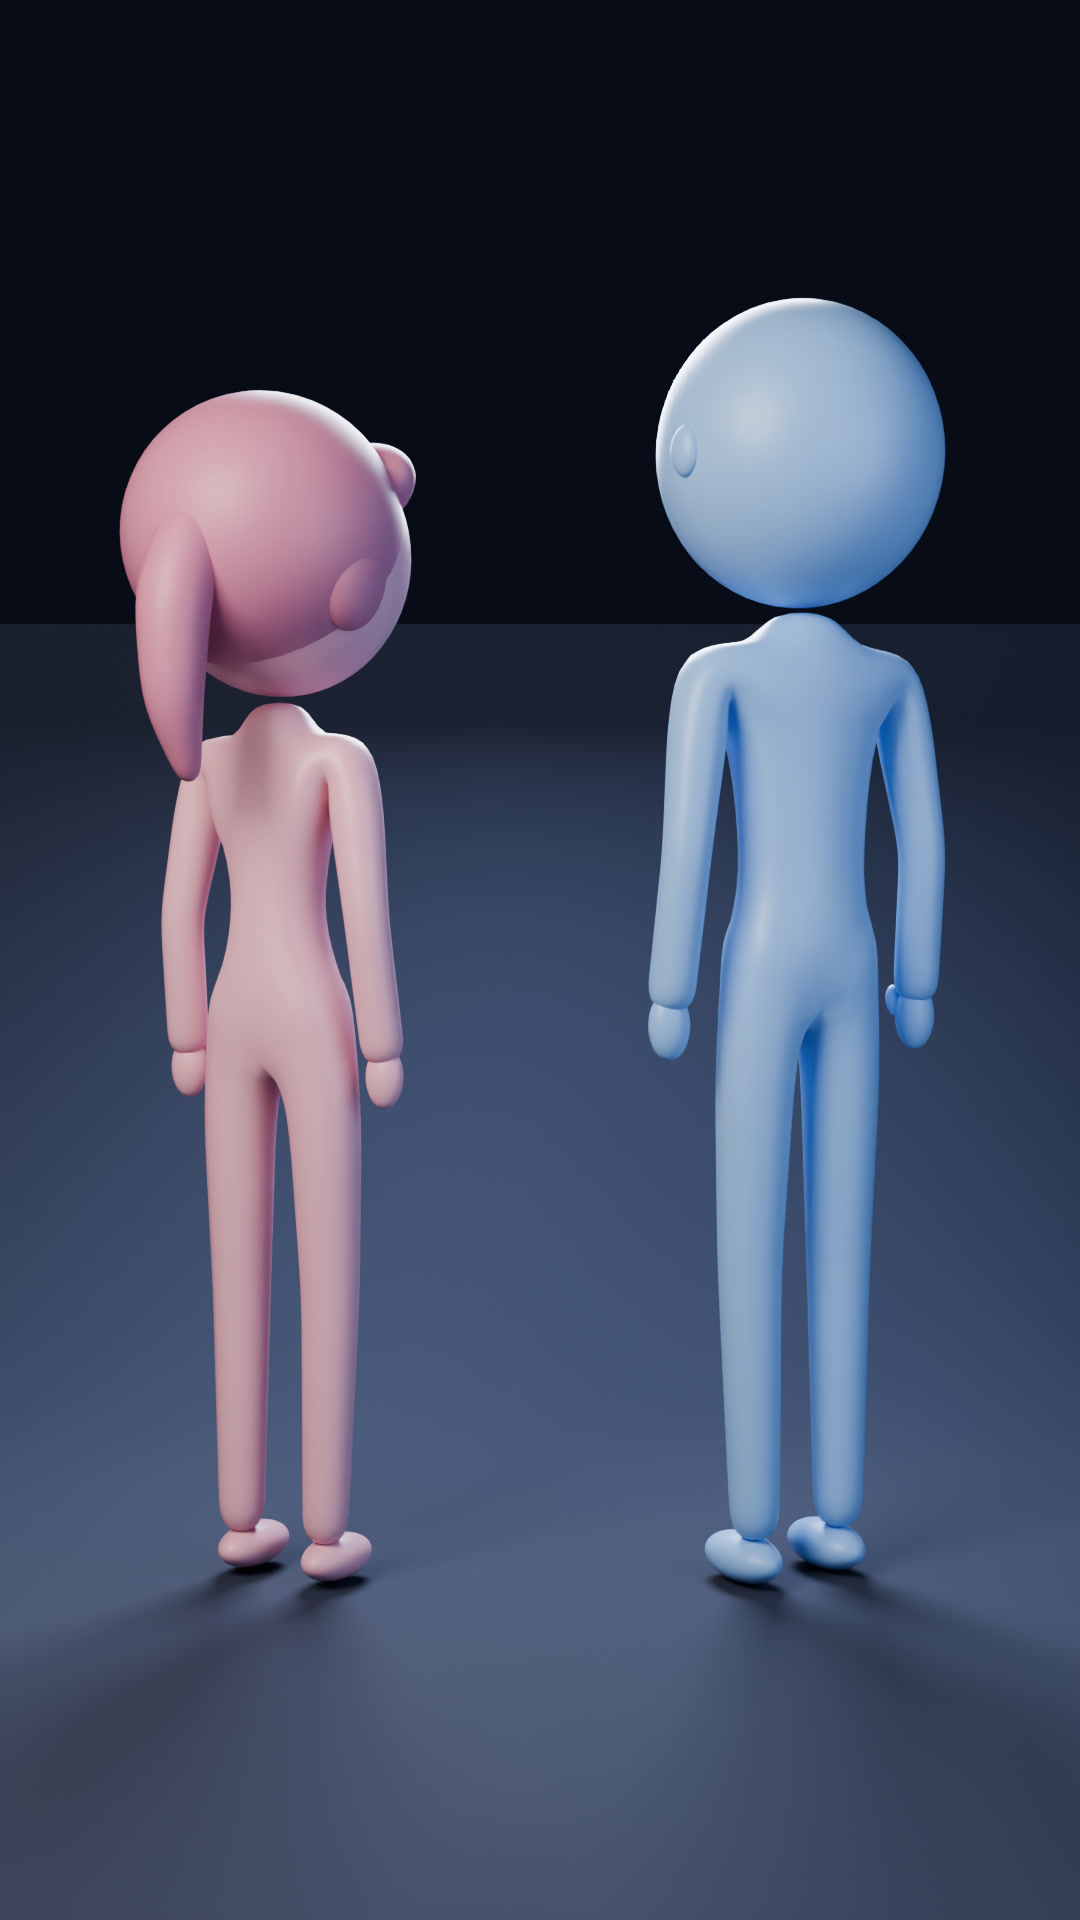
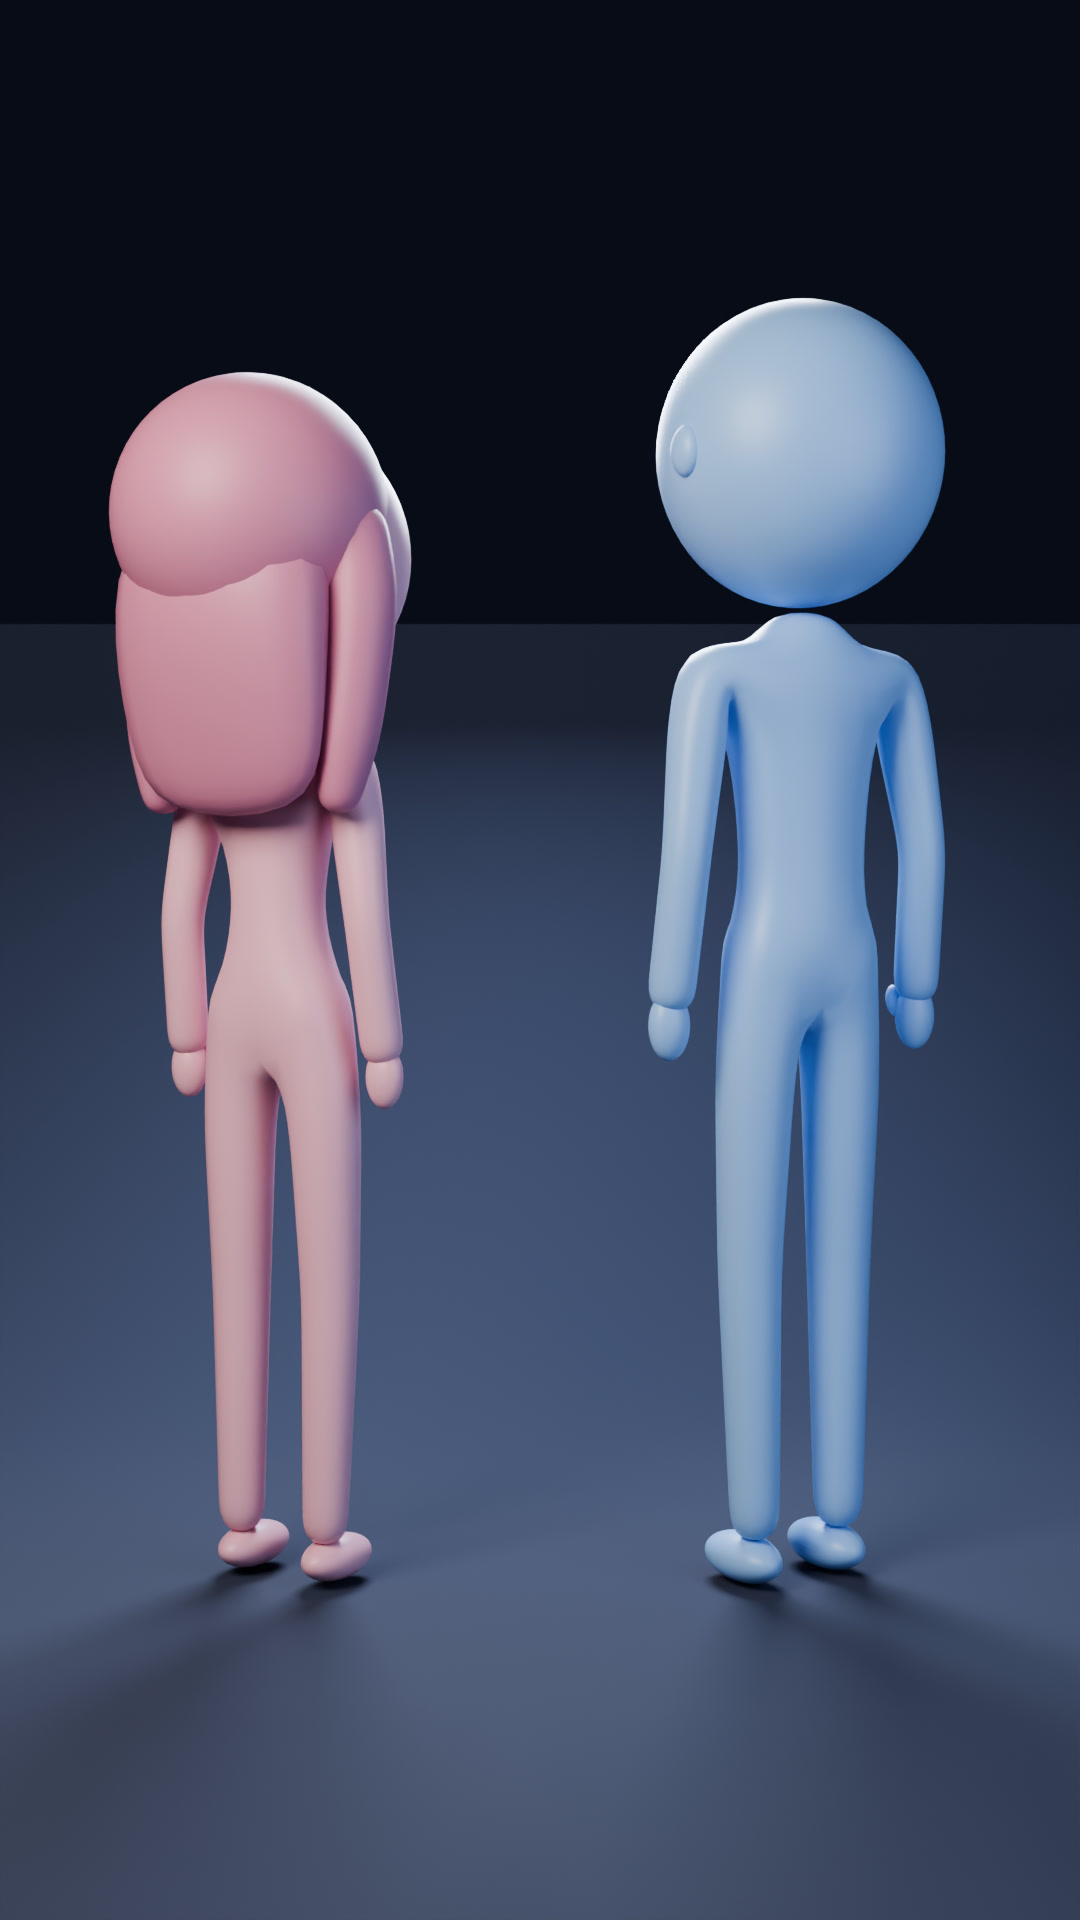
Her hair: loose, just below the shoulders, no fringe
Claude-Session: https://claude.ai/code/session_01FQFJKx8X2643G2hLZWtcZT

Changed region(s): [[0.0917, 0.1875, 0.3972, 0.4375]]

diff --git a/blender_figures/figures.py b/blender_figures/figures.py
@@ -107,16 +107,17 @@ def figure(w):
         arc(on_head(H, R, (s * 0.38, -1, 0.42), 0.002), on_head(H, R, (s * 0.38, -1, 0.42)) - H, (0, 0, 1), 0.036 * k, 0.0055, 20, 160, INK)
     arc(on_head(H, R, (0, -1, -0.38), 0.002), on_head(H, R, (0, -1, -0.38)) - H, (0, 0, 1), 0.04 * k, 0.0065, 205, 335, INK)   # smile
     if w:
-        # hair: a cap set back on the head + side-swept fringe + volume over the ears + ponytail
-        sphere("cap", H + Vector((0, 0.045, 0.03)), R * 1.04, HAIR, (1.0, 1.0, 1.0))
-        sphere("fringe", on_head(H, R, (-0.45, -0.75, 0.75), -0.03), R * 0.52, HAIR, (1.25, 0.6, 0.62), (0.35, 0.1, -0.45))
-        sphere("fringe2", on_head(H, R, (0.25, -0.7, 0.85), -0.03), R * 0.38, HAIR, (1.2, 0.6, 0.6), (0.4, 0, 0.3))
+        # hair: loose, just below the shoulders; no fringe, forehead and brows free
+        sphere("cap", H + Vector((0, 0.075, 0.055)), R * 1.02, HAIR, (1.0, 1.0, 1.0))
+        shz = z(1.22)
+        # back sheet of hair from the crown down to just below the shoulders
+        skin("back", [tuple(H + Vector((0, R * 0.55, R * 0.35))), tuple(H + Vector((0, R * 0.8, -R * 0.4))), (0, H.y + R * 0.7, shz + 0.02), (0, H.y + R * 0.62, shz - 0.1)],
+             [(0, 1), (1, 2), (2, 3)], [(R * 0.88, R * 0.55), (R * 1.0, R * 0.5), (R * 0.95, R * 0.3), (R * 0.75, R * 0.16)], HAIR)
+        # side locks falling past the ears onto the shoulders
         for s in (-1, 1):
-            sphere("side", H + Vector((s * R * 0.78, 0.05, -0.02)), R * 0.42, HAIR, (0.55, 0.9, 1.15))
-        tie = H + Vector((0, R * 0.95, R * 0.25))
-        sphere("tie", tie, R * 0.17, HAIR)
-        skin("tail", [tuple(tie + Vector((0, 0.01, 0))), tuple(tie + Vector((0, 0.07, -0.12))), tuple(tie + Vector((0, 0.07, -0.27))), tuple(tie + Vector((0, 0.03, -0.38)))],
-             [(0, 1), (1, 2), (2, 3)], [0.05, 0.058, 0.045, 0.015], HAIR)
+            skin("lock", [tuple(H + Vector((s * R * 0.72, R * 0.25, R * 0.35))), tuple(H + Vector((s * R * 0.92, R * 0.3, -R * 0.35))),
+                          (s * R * 0.85, H.y + R * 0.38, shz + 0.02), (s * R * 0.78, H.y + R * 0.42, shz - 0.09)],
+                 [(0, 1), (1, 2), (2, 3)], [R * 0.32, R * 0.3, R * 0.26, R * 0.14], HAIR)
     else:
         for s in (-1, 1):                 # small ears so his bald head reads as a head
             sphere("ear", H + Vector((s * R * 0.95, 0.01, -0.01)), R * 0.17, m, (0.5, 0.8, 1.0))
